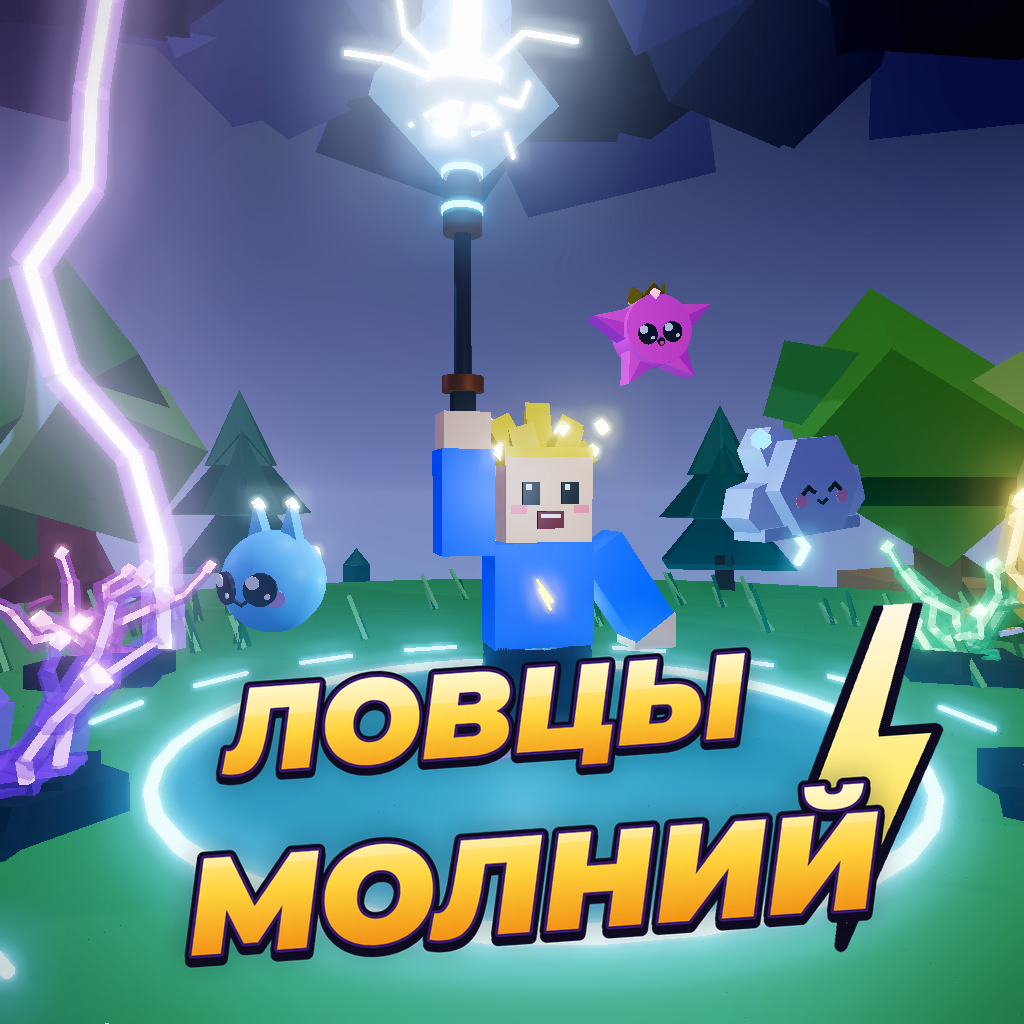
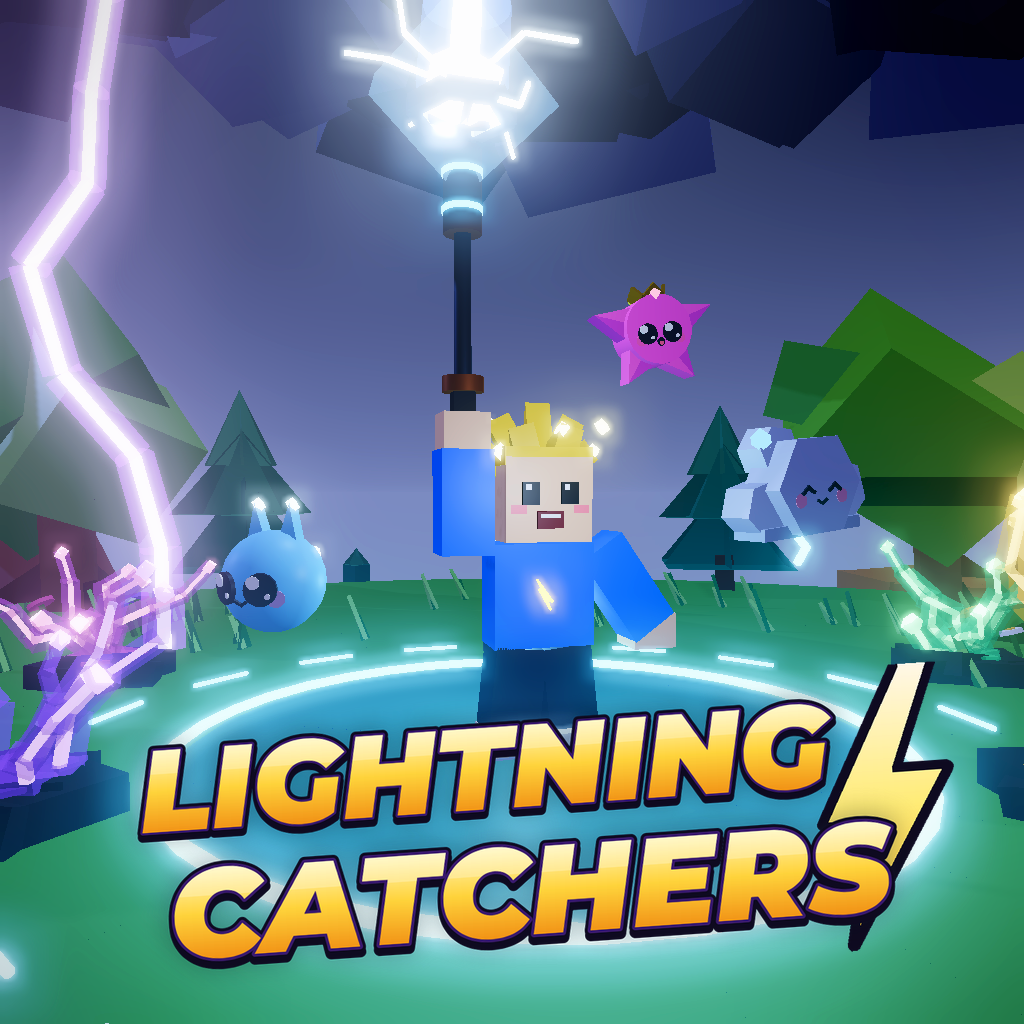
WIP: English localization in progress (EN art primary, store texts, partial conversions)
Claude-Session: https://claude.ai/code/session_01U9PrzhBtPwVNCLHTiBoTvy

Changed region(s): [[0.125, 0.5625, 0.9375, 0.9688]]

diff --git a/LightningCatchers/tools/preview/compose_icon.py b/LightningCatchers/tools/preview/compose_icon.py
@@ -3,11 +3,18 @@
 """Иконка (512x512) и обложка (1920x1080) игры из офлайн-рендеров сцены tools/preview/icon_scene.luau.
 Логотип по docs/STYLE.md §10: две строки, «МОЛНИЙ» на 15% крупнее, наклон, градиент 3 цвета,
 двойная обводка, жёсткая тень, голубое свечение, зигзаг-молния за буквами.
-python3 compose_icon.py <квадрат.png> <широкий.png> <MontserratBlackItalic.ttf> <NunitoExtraBold.ttf> <папка>"""
+python3 compose_icon.py <квадрат.png> <широкий.png> <MontserratBlackItalic.ttf> <NunitoExtraBold.ttf> <папка> [en|ru]
+Язык (по умолчанию en): английский логотип «LIGHTNING / CATCHERS» — основной (игра для всего мира), русский — для локализации."""
 import sys, os
 from PIL import Image, ImageDraw, ImageFont, ImageEnhance, ImageFilter
 
 sq_path, wide_path, display_path, body_path, out_dir = sys.argv[1:6]
+LANG = sys.argv[6] if len(sys.argv) > 6 else "en"
+TEXT = {
+    # строки логотипа и масштаб каждой (вторая строка на 15% крупнее — устойчивое «основание»)
+    "ru": {"lines": ("ЛОВЦЫ", "МОЛНИЙ"), "scale": (1.0, 1.15), "sub": "Лови молнию в нужный момент!", "tag": "ИДЕАЛЬНО!"},
+    "en": {"lines": ("LIGHTNING", "CATCHERS"), "scale": (1.0, 1.08), "sub": "Catch the lightning at the perfect moment!", "tag": "PERFECT!"},
+}[LANG]
 os.makedirs(out_dir, exist_ok=True)
 
 FILL = [(255, 248, 190), (255, 212, 60), (242, 146, 22)]
@@ -107,13 +114,14 @@ def bolt(size, box, outline):
 
 
 def logo(width, display_path, cap_frac=0.13):
-    """Двухстрочный логотип «ЛОВЦЫ / МОЛНИЙ» шириной примерно width."""
+    """Двухстрочный логотип («LIGHTNING / CATCHERS» или «ЛОВЦЫ / МОЛНИЙ») шириной примерно width."""
     size1 = int(width * cap_frac * 1.32)
-    f1 = ImageFont.truetype(display_path, size1)
-    f2 = ImageFont.truetype(display_path, int(size1 * 1.15))
-    cap = f1.getbbox("Л")[3] - f1.getbbox("Л")[1]
-    w1 = logo_word("ЛОВЦЫ", f1, cap)
-    w2 = logo_word("МОЛНИЙ", f2, int(cap * 1.15))
+    k1, k2 = TEXT["scale"]
+    f1 = ImageFont.truetype(display_path, int(size1 * k1))
+    f2 = ImageFont.truetype(display_path, int(size1 * k2))
+    cap = f1.getbbox("H")[3] - f1.getbbox("H")[1]
+    w1 = logo_word(TEXT["lines"][0], f1, cap)
+    w2 = logo_word(TEXT["lines"][1], f2, int(cap * k2 / k1))
     W = max(w1.width, w2.width) + cap * 2
     H = int(w1.height * 0.78 + w2.height)
     canvas = Image.new("RGBA", (W, H), (0, 0, 0, 0))
@@ -161,10 +169,10 @@ lg = lg.resize((int(lg.width * scale), int(lg.height * scale)), Image.LANCZOS)
 wide.alpha_composite(lg, (int(W * 0.02), int(H * 0.08)))
 fsub = ImageFont.truetype(body_path, int(H * 0.05))
 sub = Image.new("RGBA", (W, int(H * 0.1)), (0, 0, 0, 0))
-ImageDraw.Draw(sub).text((0, 0), "Лови молнию в нужный момент!", font=fsub, fill=CREAM, stroke_width=int(H * 0.006), stroke_fill=INK)
+ImageDraw.Draw(sub).text((0, 0), TEXT["sub"], font=fsub, fill=CREAM, stroke_width=int(H * 0.006), stroke_fill=INK)
 sub = sub.crop(sub.getbbox())
 wide.alpha_composite(sub.rotate(4, resample=Image.BICUBIC, expand=True), (int(W * 0.06), int(H * 0.08 + lg.height + H * 0.02)))
-t = tag("ИДЕАЛЬНО!", display_path, int(H * 0.08))
+t = tag(TEXT["tag"], display_path, int(H * 0.08))
 wide.alpha_composite(t, (int(W * 0.72), int(H * 0.1)))
 wide.convert("RGB").save(os.path.join(out_dir, "thumbnail_1920x1080.png"))
 print("saved to", out_dir)

diff --git a/LightningCatchers/docs/STORE.md b/LightningCatchers/docs/STORE.md
@@ -1,0 +1,77 @@
+# Страница игры на Roblox: название, описание, локализация
+
+Основной язык страницы и игры — **английский** (аудитория — весь Roblox). Русский — перевод для игроков
+с русским языком: им Roblox покажет русские название и описание, а игра сама включит русский интерфейс.
+
+## Английский (основной: Game Settings → Basic Info)
+
+**Name** (до 50 символов):
+```
+⚡ Lightning Catchers
+```
+Вариант с тегом для обновлений: `[NEW] ⚡ Lightning Catchers`
+
+**Description** (до 1000 символов):
+```
+⚡ A never-ending storm rages over the floating islands, and lightning is the ultimate treasure!
+
+Step into a glowing ring and hit CATCH at the exact moment the bolt strikes. Nail it for a PERFECT catch, double charge and a growing combo. Miss, and you get a hilarious shock with your hair standing on end!
+
+🫙 Fill the jar on your back and sell the charge at a Substation for Volts
+🏝 Unlock 5 islands: Storm Meadow, Copper Hills, Glass Dunes, Frost Peak and the Eye of the Storm
+🌈 7 lightning colors, from Blue to the legendary Black Lightning of Perun (1 in 6,000!)
+🐾 Hatch 21 Sparklings from cocoons
+💎 Collect Fulgurites: every one is unique and numbered
+🌩 Server events: Supercell, Ball Lightning boss, Rainbow Lightning
+🏙 Light up Voltville together with your server for ×2 Volts
+🔁 Rebirth, daily rewards and quests
+
+Not a mindless clicker: it takes timing and quick feet!
+
+🎁 CODES: LIGHTNING, PERUN, STORM
+
+👍 Like and favorite for new islands!
+```
+
+**Иконка и обложка:** [`art/icon_512.png`](../art/icon_512.png), [`art/thumbnail_1920x1080.png`](../art/thumbnail_1920x1080.png) (английский логотип).
+Русские версии: [`art/ru/`](../art/ru/).
+
+## Русский (перевод: Creator Dashboard → игра → Localization → Russian → Experience Information)
+
+**Название:**
+```
+⚡ Ловцы Молний
+```
+
+**Описание:**
+```
+⚡ Над летающими островами бушует вечная гроза, и молния здесь — настоящее сокровище!
+
+Вбегай в светящееся кольцо и жми ЛОВИ ровно в момент удара. Попал идеально — двойной заряд и комбо. Промахнулся — смешной удар током, волосы дыбом!
+
+🫙 Копи заряд в банке за спиной и сдавай его на подстанции за Вольты
+🏝 Открой 5 островов: Грозовой Луг, Медные Холмы, Стеклянные Дюны, Ледяной Пик и Око Бури
+🌈 7 цветов молний, от голубой до легендарной Чёрной молнии Перуна (1 из 6000!)
+🐾 21 питомец-искрёнок из коконов
+💎 Собирай фульгуриты — у каждого свой номер, двух одинаковых нет
+🌩 События сервера: Суперячейка, Шаровая молния, Радужная молния
+🏙 Зажигайте город Электроград всем сервером и получайте ×2 Вольт
+🔁 Перерождение, ежедневные награды и задания
+
+Это не простое кликанье: нужны реакция и чувство ритма!
+
+🎁 КОДЫ: МОЛНИЯ, ПЕРУН, ГРОЗА (или LIGHTNING, PERUN, STORM)
+
+👍 Ставь лайк и добавляй в избранное — скоро новые острова!
+```
+
+## Настройки локализации
+
+1. **Creator Dashboard → игра → Localization → Settings**: исходный язык (Source language) — **English**.
+2. Добавь язык **Russian** и впиши русские название и описание (выше). Иконку и обложку тоже можно задать отдельно
+   для русского языка — файлы в `art/ru/`.
+3. Интерфейс игры переводить в Roblox не нужно: английский и русский встроены (`src/shared/Strings/`), язык выбирается
+   по языку аккаунта, а в Настройках есть переключатель English / Русский.
+4. По желанию: включить **автоматический перевод** Roblox для остальных языков (испанский, португальский и т. д.):
+   Roblox переведёт английские надписи сам. Перевод машинный и не всегда точный для строк с числами — проверь его
+   перед включением на популярных языках.
